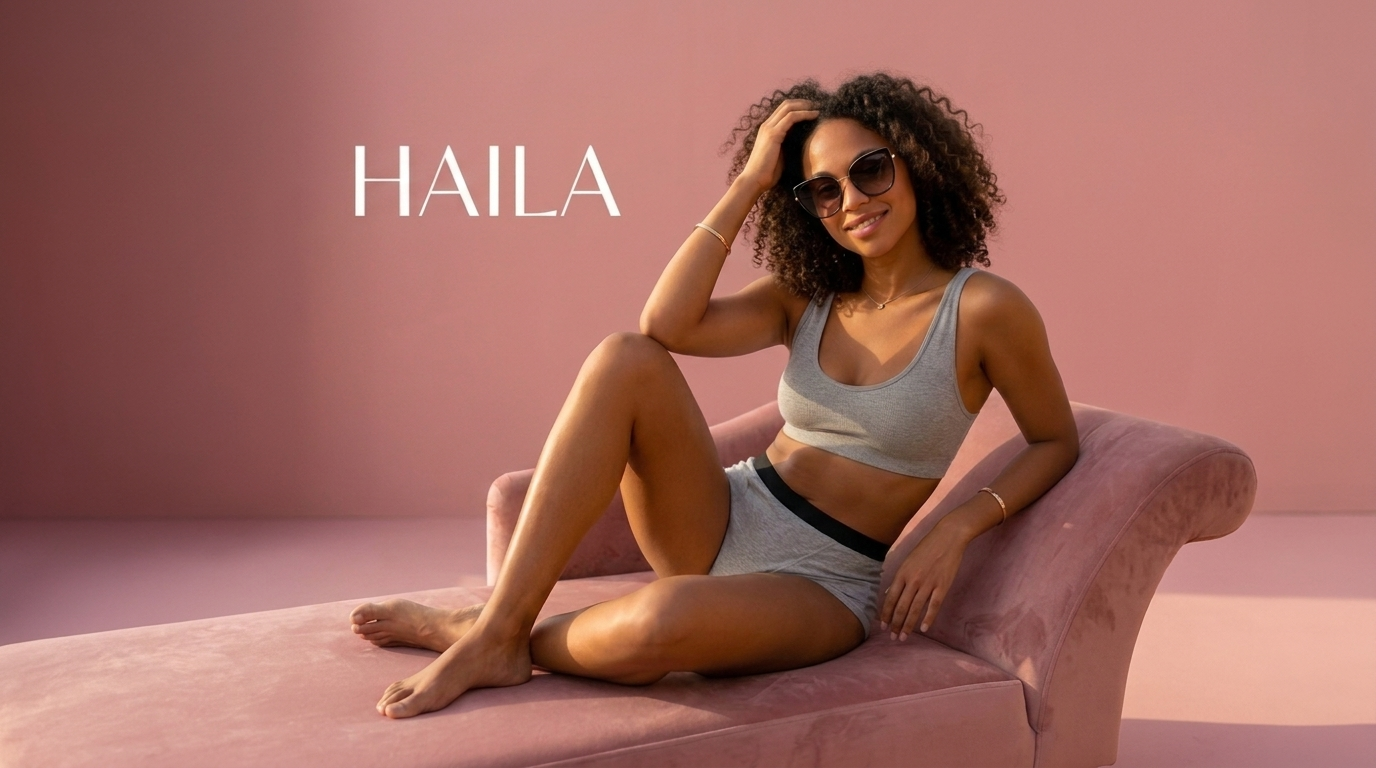
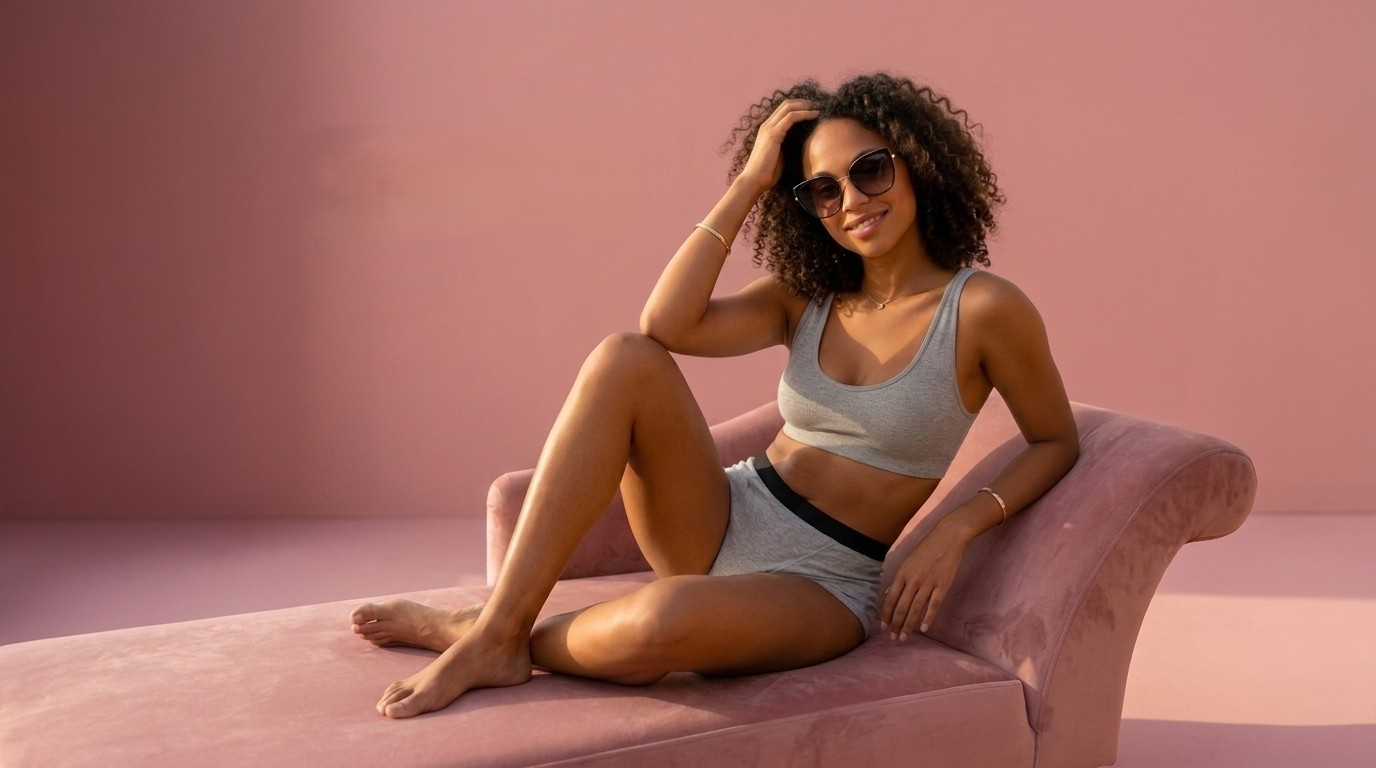
shop changes

Changed region(s): [[0.25, 0.1875, 0.4688, 0.2812]]

diff --git a/shop.html b/shop.html
@@ -242,7 +242,7 @@
                         <div class="bg-white p-4 rounded-none shadow scroll-reveal" data-category="Period Underwear" data-absorbency="Regular">
                             <img src="assets/images/products/1.jpg" alt="Stretchy Briefs"
                                 class="w-full h-40 sm:h-48 object-cover mb-4 rounded-none">
-                            <div class="inline-flex rounded-none bg-primary text-white px-3 py-1 text-xs font-semibold uppercase tracking-[0.2em] mb-3">Period Underwear</div>
+                            <span class="product-tag product-tag--period">Period Underwear</span>
                             <a href="#" class="text-lg font-semibold mb-2 block">Stretchy Briefs</a>
                             <div class="absorbency-droplets" aria-label="Absorbency: Regular">
                                 <i class="fa-solid fa-droplet filled"></i>
@@ -264,7 +264,7 @@
                         <div class="bg-white p-4 rounded-none shadow scroll-reveal" data-category="Period Underwear" data-absorbency="Heavy">
                             <img src="assets/images/products/2.jpg" alt="Boxer Shorts"
                                 class="w-full h-40 sm:h-48 object-cover mb-4 rounded-none">
-                            <div class="inline-flex rounded-none bg-primary text-white px-3 py-1 text-xs font-semibold uppercase tracking-[0.2em] mb-3">Period Underwear</div>
+                            <span class="product-tag product-tag--period">Period Underwear</span>
                             <a href="#" class="text-lg font-semibold mb-2 block">Boxer Shorts</a>
                             <div class="absorbency-droplets" aria-label="Absorbency: Heavy">
                                 <i class="fa-solid fa-droplet filled"></i>
@@ -285,7 +285,7 @@
                         <div class="bg-white p-4 rounded-none shadow scroll-reveal" data-category="Period Underwear" data-absorbency="Regular">
                             <img src="assets/images/products/3.jpg" alt="Lace Briefs"
                                 class="w-full h-40 sm:h-48 object-cover mb-4 rounded-none">
-                            <div class="inline-flex rounded-none bg-primary text-white px-3 py-1 text-xs font-semibold uppercase tracking-[0.2em] mb-3">Period Underwear</div>
+                            <span class="product-tag product-tag--period">Period Underwear</span>
                             <a href="#" class="text-lg font-semibold mb-2 block">Lace Briefs</a>
                             <div class="absorbency-droplets" aria-label="Absorbency: Regular">
                                 <i class="fa-solid fa-droplet filled"></i>
@@ -307,7 +307,7 @@
                         <div class="bg-white p-4 rounded-none shadow scroll-reveal" data-category="Haila Active" data-absorbency="Heavy">
                             <img src="assets/images/products/4.jpg" alt="Gym Leggings"
                                 class="w-full h-40 sm:h-48 object-cover mb-4 rounded-none">
-                            <div class="inline-flex rounded-none bg-clay text-white px-3 py-1 text-xs font-semibold uppercase tracking-[0.2em] mb-3">Haila Active</div>
+                            <span class="product-tag product-tag--active">Haila Active</span>
                             <a href="#" class="text-lg font-semibold mb-2 block">Gym Leggings</a>
                             <div class="absorbency-droplets" aria-label="Absorbency: Heavy">
                                 <i class="fa-solid fa-droplet filled"></i>
@@ -328,7 +328,7 @@
                         <div class="bg-white p-4 rounded-none shadow scroll-reveal" data-category="Haila Active" data-absorbency="Regular">
                             <img src="assets/images/products/5.jpg" alt="Gym Shorts"
                                 class="w-full h-40 sm:h-48 object-cover mb-4 rounded-none">
-                            <div class="inline-flex rounded-none bg-clay text-white px-3 py-1 text-xs font-semibold uppercase tracking-[0.2em] mb-3">Haila Active</div>
+                            <span class="product-tag product-tag--active">Haila Active</span>
                             <a href="#" class="text-lg font-semibold mb-2 block">Gym Shorts</a>
                             <div class="absorbency-droplets" aria-label="Absorbency: Regular">
                                 <i class="fa-solid fa-droplet filled"></i>
@@ -350,7 +350,7 @@
                         <div class="bg-white p-4 rounded-none shadow scroll-reveal" data-category="Haila Active" data-absorbency="Super Heavy">
                             <img src="assets/images/products/6.jpg" alt="Swimwear"
                                 class="w-full h-40 sm:h-48 object-cover mb-4 rounded-none">
-                            <div class="inline-flex rounded-none bg-clay text-white px-3 py-1 text-xs font-semibold uppercase tracking-[0.2em] mb-3">Haila Active</div>
+                            <span class="product-tag product-tag--active">Haila Active</span>
                             <a href="#" class="text-lg font-semibold mb-2 block">Swimwear</a>
                             <div class="absorbency-droplets" aria-label="Absorbency: Super Heavy">
                                 <i class="fa-solid fa-droplet filled"></i>
@@ -371,7 +371,7 @@
                         <div class="bg-white p-4 rounded-none shadow scroll-reveal" data-category="Other" data-absorbency="Super Heavy">
                             <img src="assets/images/products/7.jpg" alt="Period Activewear"
                                 class="w-full h-40 sm:h-48 object-cover mb-4 rounded-none">
-                            <div class="inline-flex rounded-none bg-gray-light text-white px-3 py-1 text-xs font-semibold uppercase tracking-[0.2em] mb-3">Other</div>
+                            <span class="product-tag product-tag--other">Other</span>
                             <a href="#" class="text-lg font-semibold mb-2 block">Period Activewear</a>
                             <div class="absorbency-droplets" aria-label="Absorbency: Super Heavy">
                                 <i class="fa-solid fa-droplet filled"></i>
@@ -393,7 +393,7 @@
                         <div class="bg-white p-4 rounded-none shadow scroll-reveal" data-category="Postpartum" data-absorbency="Super Heavy">
                             <img src="assets/images/products/8.jpg" alt="Postpartum Recovery Set"
                                 class="w-full h-40 sm:h-48 object-cover mb-4 rounded-none">
-                            <div class="inline-flex rounded-none bg-secondary text-white px-3 py-1 text-xs font-semibold uppercase tracking-[0.2em] mb-3">Postpartum</div>
+                            <span class="product-tag product-tag--postpartum">Postpartum</span>
                             <a href="#" class="text-lg font-semibold mb-2 block">Postpartum Recovery Set</a>
                             <div class="absorbency-droplets" aria-label="Absorbency: Super Heavy">
                                 <i class="fa-solid fa-droplet filled"></i>

diff --git a/assets/css/custom.css b/assets/css/custom.css
@@ -16,6 +16,34 @@ a {
     grid-template-columns: repeat(auto-fill, minmax(260px, 1fr));
 }
 
+/* Popular products: spread the cards evenly across the row so they stay centered
+   on wide screens instead of clustering to the left in leftover auto-fill tracks. */
+#popular-products .product-grid-auto {
+    grid-template-columns: repeat(auto-fit, minmax(260px, 1fr));
+}
+
+/* On mobile, turn the popular-products grid into a horizontal, snap-scrolling row. */
+@media (width < 640px) {
+    #popular-products .product-grid-auto {
+        display: flex;
+        overflow-x: auto;
+        scroll-snap-type: x mandatory;
+        -webkit-overflow-scrolling: touch;
+        padding-bottom: 0.5rem;
+    }
+    #popular-products .product-grid-auto > div {
+        flex: 0 0 78%;
+        scroll-snap-align: start;
+    }
+}
+
+/* Shop grid: show two cards per row on mobile instead of one to reduce scrolling. */
+@media (width < 640px) {
+    #products-grid {
+        grid-template-columns: repeat(2, minmax(0, 1fr));
+    }
+}
+
 @media (width >= 640px) {
     .sm\:h-48 {
         height: calc(var(--spacing) * 48);
@@ -514,6 +542,55 @@ img.cursor-pointer:hover {
         transition: none;
     }
 }
+
+/* Product category tags — soft, palette-consistent pills instead of solid blocks */
+.product-tag {
+    display: inline-flex;
+    align-items: center;
+    padding: 0.3rem 0.75rem;
+    margin-bottom: 0.75rem;
+    border-radius: 9999px;
+    font-size: 0.65rem;
+    font-weight: 600;
+    letter-spacing: 0.15em;
+    text-transform: uppercase;
+}
+.product-tag--period {
+    background-color: rgba(166, 61, 92, 0.12);
+    color: var(--color-primary);
+}
+.product-tag--active {
+    background-color: rgba(176, 125, 98, 0.16);
+    color: var(--color-clay);
+}
+.product-tag--postpartum {
+    background-color: rgba(126, 37, 65, 0.12);
+    color: var(--color-burgundy);
+}
+.product-tag--other {
+    background-color: rgba(207, 165, 154, 0.24);
+    color: #8a5a49;
+}
+
+/* Product card polish — soft border, gentle shadow and lift/zoom on hover */
+#products-grid > div {
+    overflow: hidden;
+    border: 1px solid var(--color-gray-100);
+    box-shadow: 0 1px 2px rgba(1, 7, 23, 0.04);
+    transition: transform 0.3s ease, box-shadow 0.3s ease, border-color 0.3s ease;
+}
+#products-grid > div:hover {
+    transform: translateY(-4px);
+    box-shadow: 0 14px 30px rgba(166, 61, 92, 0.13);
+    border-color: var(--color-gray-line);
+}
+#products-grid > div img {
+    transition: transform 0.5s ease;
+}
+#products-grid > div:hover img {
+    transform: scale(1.05);
+}
+
 
 
 /* footer */
